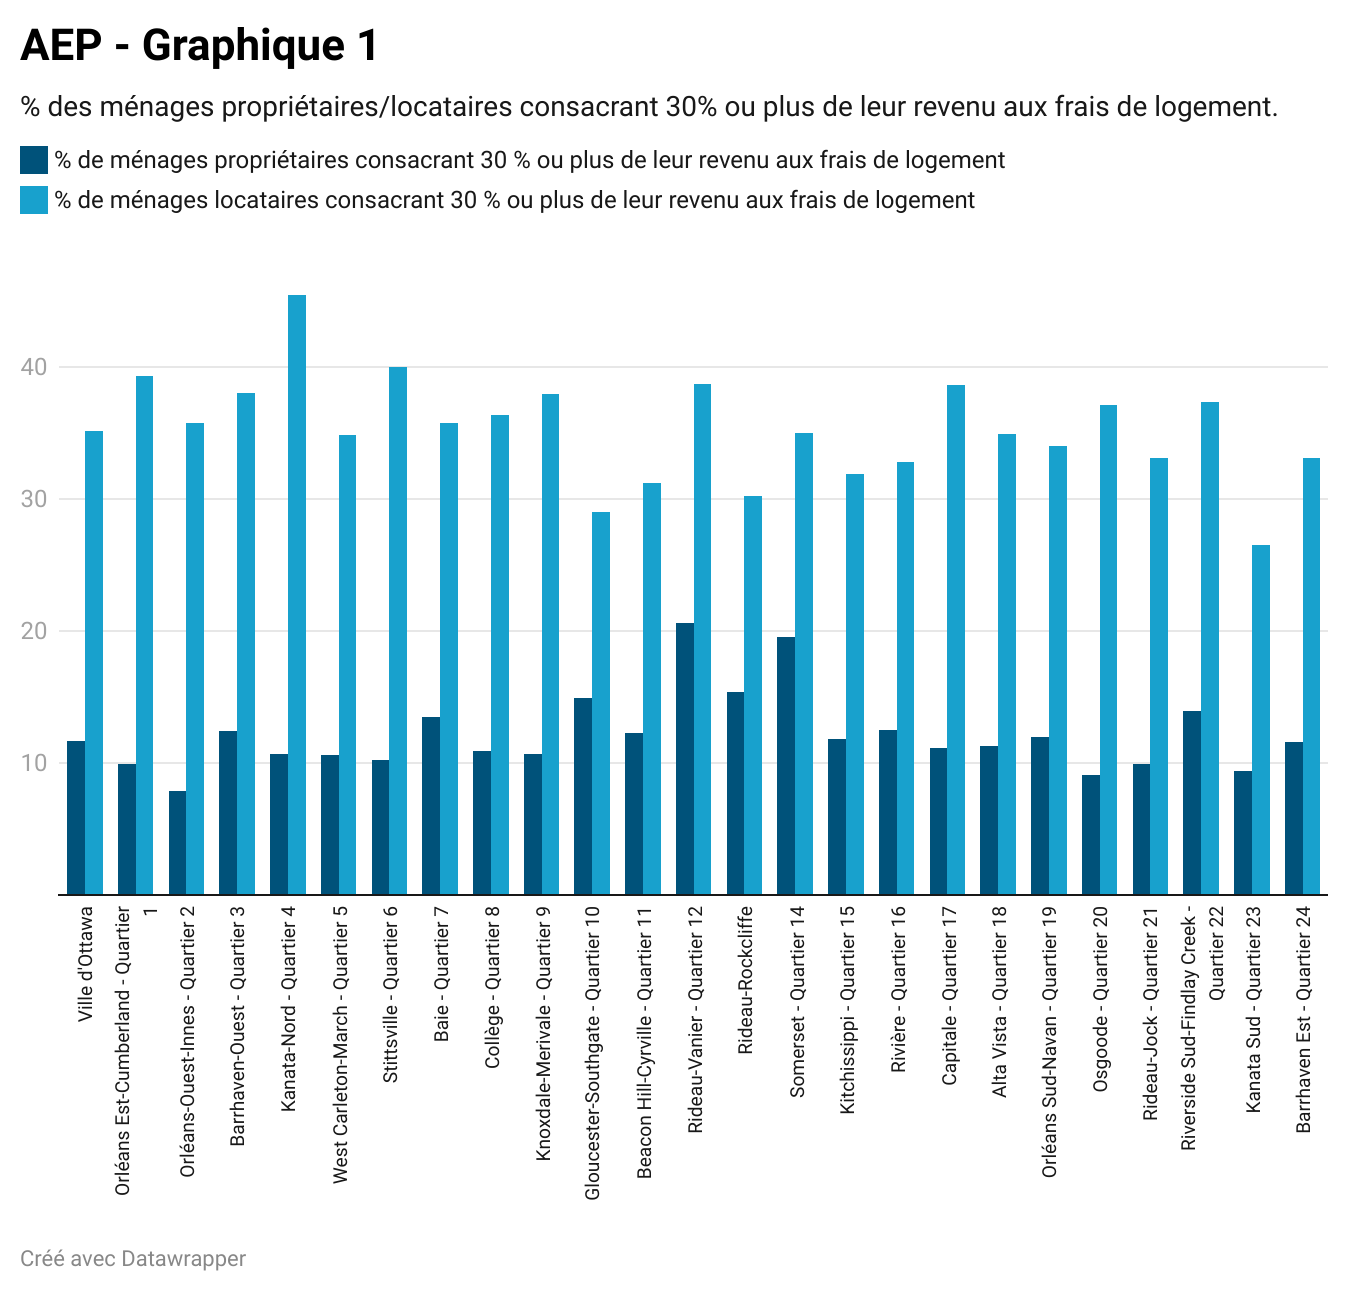
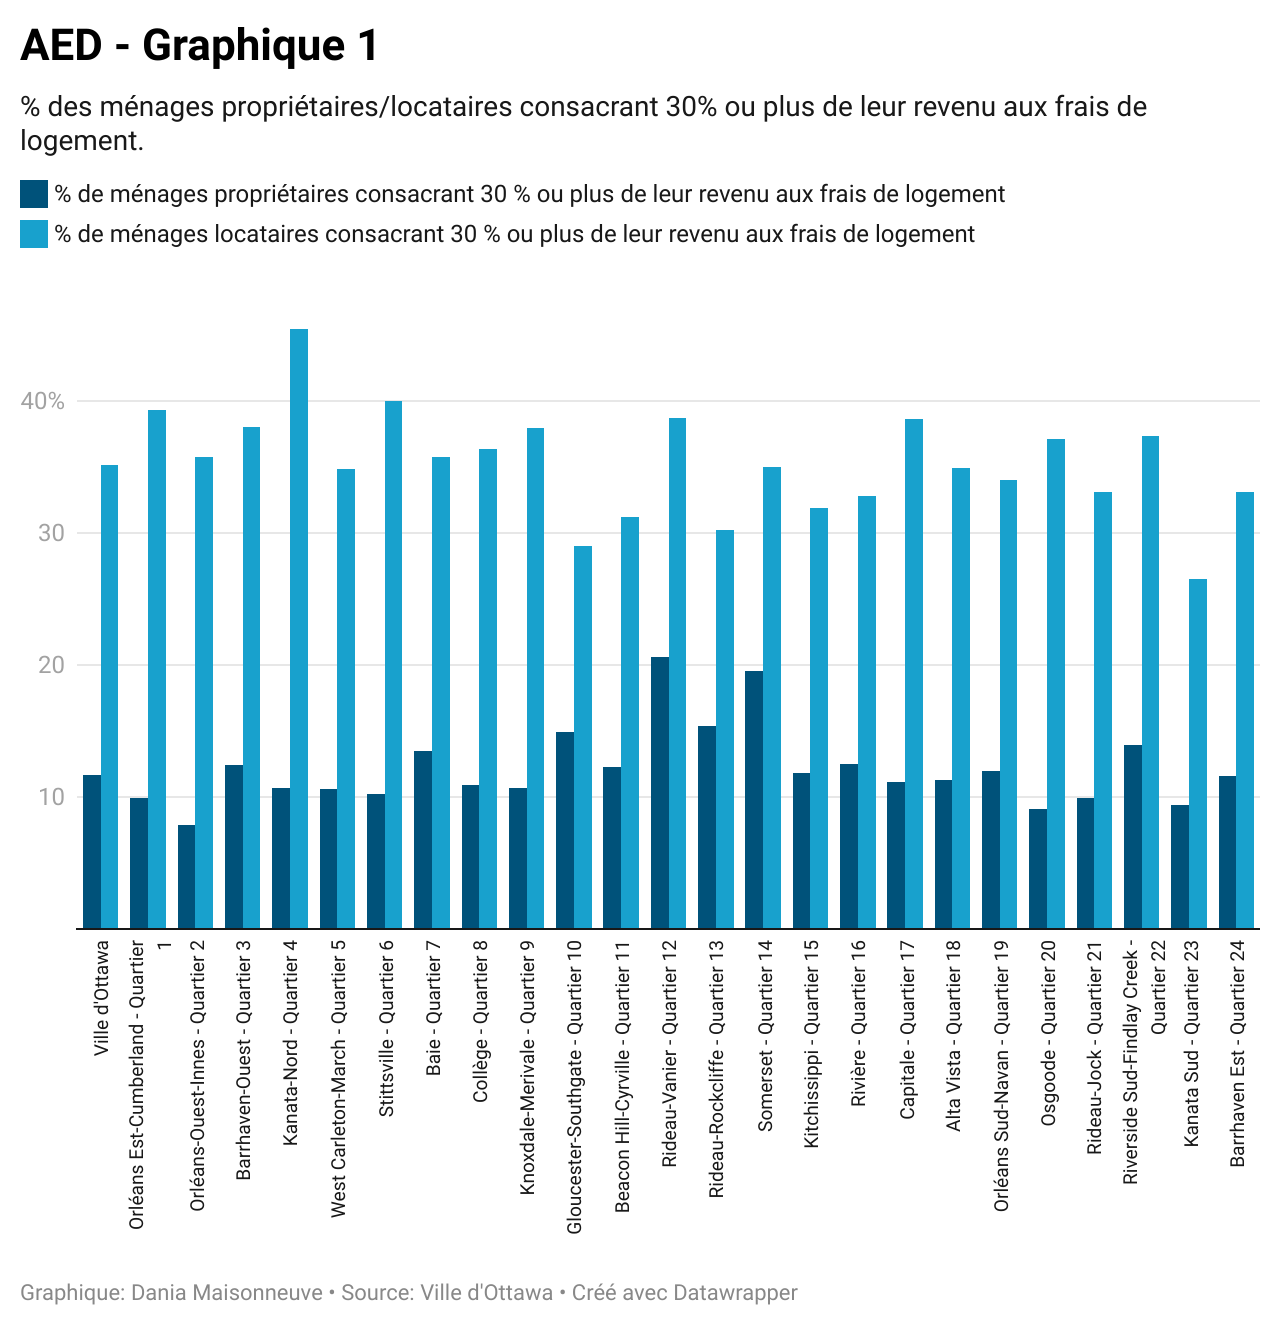
Version final VIMA et AED et insersion des sources

diff --git a/jou4500-aed-groupe-4.md b/jou4500-aed-groupe-4.md
@@ -37,11 +37,11 @@ Est-ce que ça vaut plus la peine d'être locataire plutôt que propriétaire da
 
 ### 3.1. Analyse VIMA
 
-Nous avons fait notre analyse VIMA sur l’ensemble des caractéristiques liées à notre sujet, comme les frais de logement et les revenus des ménages. Lorsque nous avons téléversé ces données dans notre nouvelle feuille de calcul “Données utiles”, nous avons tout de suite remarqué quelques détails.
+Nous avons fait notre analyse VIMA sur l’ensemble des caractéristiques liées à notre sujet, comme les frais de logement et les revenus des ménages. Lorsque nous avons téléversé ces données dans notre nouvelle feuille de calcul « Données utiles », nous avons tout de suite remarqué quelques détails.
 
-D’abord, plusieurs données avaient des erreurs de formatage. À titre d’exemple, les valeurs dans la ligne 7 n'étaient pas formatées de la même façon. Certaines de ces données étaient des chiffres alors que d’autres étaient des dates. De plus, nous avons remarqué que les colonnes M et N présentaient souvent des erreurs de formatage majeures (dans l’ensemble du jeu de donné), ce qui rendait parfois nos valeurs aberrantes ou invalides. Par exemple, la valeur de la cellule M:7 affiche le chiffre 45 994, alors que cette ligne est censée afficher un pourcentage. Les autres données de cette même ligne font une moyenne de 10,15 %. Par conséquent, la valeur de 45 000 % ressort du lot et est impossible dans ce contexte. Nous avons donc nettoyées ces données pour ensuite faire des analyses plus poussées.
+D’abord, plusieurs données avaient des erreurs de formatage. À titre d’exemple, les valeurs dans la ligne 7 n'étaient pas formatées de la même façon. Certaines de ces données étaient des chiffres alors que d’autres étaient des dates. De plus, nous avons remarqué que les colonnes M et N présentaient souvent des erreurs de formatage majeures (dans l’ensemble du jeu de donnée), ce qui rendait parfois nos valeurs aberrantes ou invalides. Par exemple, la valeur de la cellule M:7 affiche le chiffre 45 994, alors que cette ligne est censée afficher un pourcentage. Les autres données de cette même ligne font une moyenne de 10,15 %. Par conséquent, la valeur de 45 000 % ressort du lot et est impossible dans ce contexte. Nous avons donc nettoyé ces données pour ensuite faire des analyses plus poussées.
 
-À premier coup d'œil, les données des lignes que nous avons ciblées semblent toutes être valides. Il n’y a pas de données manquantes et il ne semble pas y avoir de données invalides ou aberrantes. Afin de confirmer ce constat, nous avons produit un premier graphique comme le suggère Statistique Canada pour assurer la qualité des données (2020). Le graphique ci-dessous, portant sur les lignes 7 et 8, nous a permis de confirmer qu’il n’y a évidemment pas de valeur aberrante. De plus, aucune valeur invalide ne fut soulevée. 
+À premier coup d'œil, les données des lignes que nous avons ciblées semblent toutes être valides. Il n’y a pas de données manquantes et il ne semble pas y avoir de données invalides ou aberrantes. Afin de confirmer ce constat, nous avons produit un premier graphique, comme le suggère Statistique Canada pour assurer la qualité des données (2020). Le graphique ci-dessous, portant sur les lignes 7 et 8, nous a permis de confirmer qu’il n’y a évidemment pas de valeur aberrante. De plus, aucune valeur invalide ne fut soulevée. 
 
 ![alt text](<VIMA - Graphique 1.png>)
 
@@ -71,54 +71,52 @@ Nous avons concentré notre analyse exploratoire sur les deux variables suivante
 * % de ménages locataires consacrant 30% ou plus de leur revenu aux frais de logement
 * % de ménages propriétaires consacrant 30% ou plus de leur revenu au frais de logement
 
-À notre avis, il s’agit des meilleures variables pour nous aider à comprendre s’il est plus plus avantageux d’être propriétaire ou locataire à Ottawa. C’est une chose que les prix des logements soient élevés ou non, mais il en est tout autre si les individus doivent dépenser plus de 30% de leur salaire en frais de logement, ce qui leur laisse moins d’argent pour d’autres dépenses essentielles. 
+À notre avis, il s’agit des meilleures variables pour nous aider à comprendre s’il est plus avantageux d’être propriétaire ou locataire à Ottawa. C’est une chose que les prix des logements soient élevés ou non, mais il en est tout autre si les individus doivent dépenser 30% ou plus de leur salaire en frais de logement, ce qui leur laisse moins d’argent pour d’autres dépenses essentielles. Par conséquent, les termes “propriétaires” et “locataires” dans la suite de cette section (3.3.) feront toujours référence à ceux consacrant 30 % ou plus de leur revenu aux frais de logement.
 
-Le fil conducteur de notre récit nous est apparu comme une évidence. Dès notre analyse VIMA, nous avons remarqué la différence marquante entre les locataires qui dépensent plus de 30% de leur revenu en frais de logement et les propriétaires, et ce, dans chaque quartier (AED - Graphique 1). Ces statistiques ont suscité en nous plusieurs questions. Nous tenterons donc de mieux comprendre ce phénomène lors de notre récit. 
+Le fil conducteur de notre récit nous est apparu comme une évidence. Dès notre analyse VIMA, nous avons remarqué la différence marquante entre les locataires et les propriétaires dans chaque quartier. Nous avons produit un nouveau graphique à barres regroupées afin de mieux illustrer la comparaison (Statistique Canada, 2021). Ces statistiques ont suscité en nous plusieurs questions. Nous tenterons donc de mieux comprendre ce phénomène lors de notre récit. 
 
 ![alt text](<AED - Graphique 1.png>)
 
-Nous nous sommes donc servis de cette analyse exploratoire pour essayer de mieux comprendre la situation au sein de chaque quartier afin de nous guider dans nos recherches. Pour y arriver, nous avons modifié notre tableau nettoyé afin de pouvoir y réaliser de nouvelles opérations, comme des filtres (voir la capture d’écran ci-dessous). L’usage d’un tableau croisé ne semblait pas pertinent avec nos types de données. 
+Voulant mieux comprendre la situation dans chaque quartier, nous nous sommes principalement servis de notre tableau pour obtenir de nouvelles informations. L’usage d’un tableau croisé ne semblait pas pertinent avec nos types de données. 
 
-Nous avons d’abord utilisé la formule suivante afin de connaître la différence exacte entre les ménages propriétaires et locataires au sein de chaque quartier. 
+Nous avons d’abord utilisé la formule suivante pour connaître la différence exacte entre les ménages propriétaires et locataires au sein de chaque quartier. 
 
 ```
 =H_-G_
 ```
 
-À l’aide de l’outil filtre, nous avons été en mesure de déterminer les 5 quartiers où les différences sont les plus grandes : 
+À l’aide de l’outil filtre, nous avons été en mesure de déterminer **les 5 quartiers avec les plus grandes différences** : 
 1. Quartier 4 - Kanata-Nord (34,70)
 1. Quartier 6 - Stittsville (29,80)
 1. Quartier 1 - Orléans Est-Cumberland (29,40)
 1. Quartier 20 - Osgoode (28)
 1. Quartier 2 - Orléans-Ouest-Innes (27,80)
 
-Nous avons également filtré les colonnes G et H afin de connaître les quartiers où les locataires et les propriétaires sont plus nombreux à dépenser 30% de leur revenu en frais de logement. Les résultats que nous avons obtenus sont les suivants : 
+Nous avons également filtré les colonnes G et H afin de connaître les quartiers où les locataires et les propriétaires sont plus nombreux à dépenser 30% ou plus de leur revenu en frais de logement.
 
-Locataires dépensant plus de 30% de leur revenu aux frais de logement
+**Locataires dépensant plus de 30% de leur revenu aux frais de logement**
 1. Quartier 4 - Kanata-Nord
 1. Quartier 6 - Stitsville
 1. Quartier 1 - Orléans Est-Cumberland
 1. Quartier 12 - Rideau-Vanier
 1. Quartier 17 - Capitale
 
-Propriétaires dépensant plus de 30% de leur revenu aux frais de logement
+**Propriétaires dépensant plus de 30% de leur revenu aux frais de logement**
 1. Quartier 12 - Rideau-Vanier
 1. Quartier 14 - Somerset
 1. Quarter 13 - Rideau-Rockcliffe
 1. Quartier 10 - Gloucester-Southgate
 1. Quartier 22 - Riverside Sud-Findlay Creek
 
-De plus, afin de voir la relation entre les propriétaires et les locataires dépensant plus de 30% de leur revenu en frais de logement au sein d’un même quartier, nous avons produit les graphiques circulaires ci-dessous (AED - Graphique 2). Cependant, ces statistiques font ressortir les mêmes quartiers vus plus haut, seulement dans des ordres différents.
+Ensuite, puisque les graphiques circulaires permettent de représenter des proportions sur une échelle de 100% (Statistiques Canada, 2021), nous les avons utilisés afin d’analyser la relation entre les propriétaires et les locataires au sein d’un même quartier. Cependant, les statistiques sont similaires à celles énumérées ci-dessus, seulement dans des ordres différents.
 
 ![alt text](AED.2.modifie.png)
 
-Une fois ces statistiques obtenues, nous avons produit la map suivante afin de voir si la dimension géographique pouvait révéler quelque chose.
+Nous voulions ensuite savoir si l’aspect géographique pouvait révéler quelque chose. Cette map semble indiquer que les différences entre les locataires et les propriétaires sont moins prononcées dans le centre de la ville, alors qu’il semble plus élevé dans les extrémités est et ouest. Bref, un autre angle intéressant sur lequel on pourra se tourner.
 
-<iframe src="https://www.google.com/maps/d/embed?mid=1viz8KoXwr55C5Ikc4AuZ7YAVbemK1Xk&ehbc=2E312F" width="640" height="480"></iframe>
+![alt text](<AED - Carte géographique.png>)
 
-Celui-ci semble indiquer que les plus grandes différences entre les locataires dépensant plus de 30% de leur revenu en frais de logement et les propriétaires ont principalement lieu dans les extrémités est et ouest de la ville. Bref, un autre angle intéressant sur lequel on pourra se tourner.
-
-C’est ce qui conclut notre analyse exploratoire. De toute évidence, une analyse plus poussée des données afin de voir si d’autres variables, comme le revenu d’emploi moyen ou le pourcentage de gens travaillant à temps plein ou à temps partiel, pourrait expliquer cette différence. 
+C’est ce qui conclut notre analyse exploratoire. De toute évidence, une analyse plus poussée des données reste nécessaire afin de voir si d’autres variables pourraient expliquer cette différence. 
 
 
 ## 4. Récit potentiel
@@ -185,6 +183,8 @@ Lors de notre analyse exploratoire des données, nous aurions aimé pouvoir iden
 
 **Lectures obligatoires:**
 Du Canada Statistique Canada, G. (2021, September 2). Les statistiques : le pouvoir des données! https://www150.statcan.gc.ca/n1/edu/power-pouvoir/toc-tdm/5214718-fra.htm 
+
+Statistique Canada. (2020, 23 septembre). *Exactitude et validation des données : méthodes pour assurer la qualité des données*. Statistique Canada. https://www.statcan.gc.ca/fr/afc/litteratie-donnees/catalogue/892000062020008 
 
 Eads, D. (2016, October 15). How to “interview” a big pile of data. NPR. https://www.npr.org/sections/npr-training/2025/05/29/g-s1-67278/how-to-interview-a-big-pile-of-data 
 
